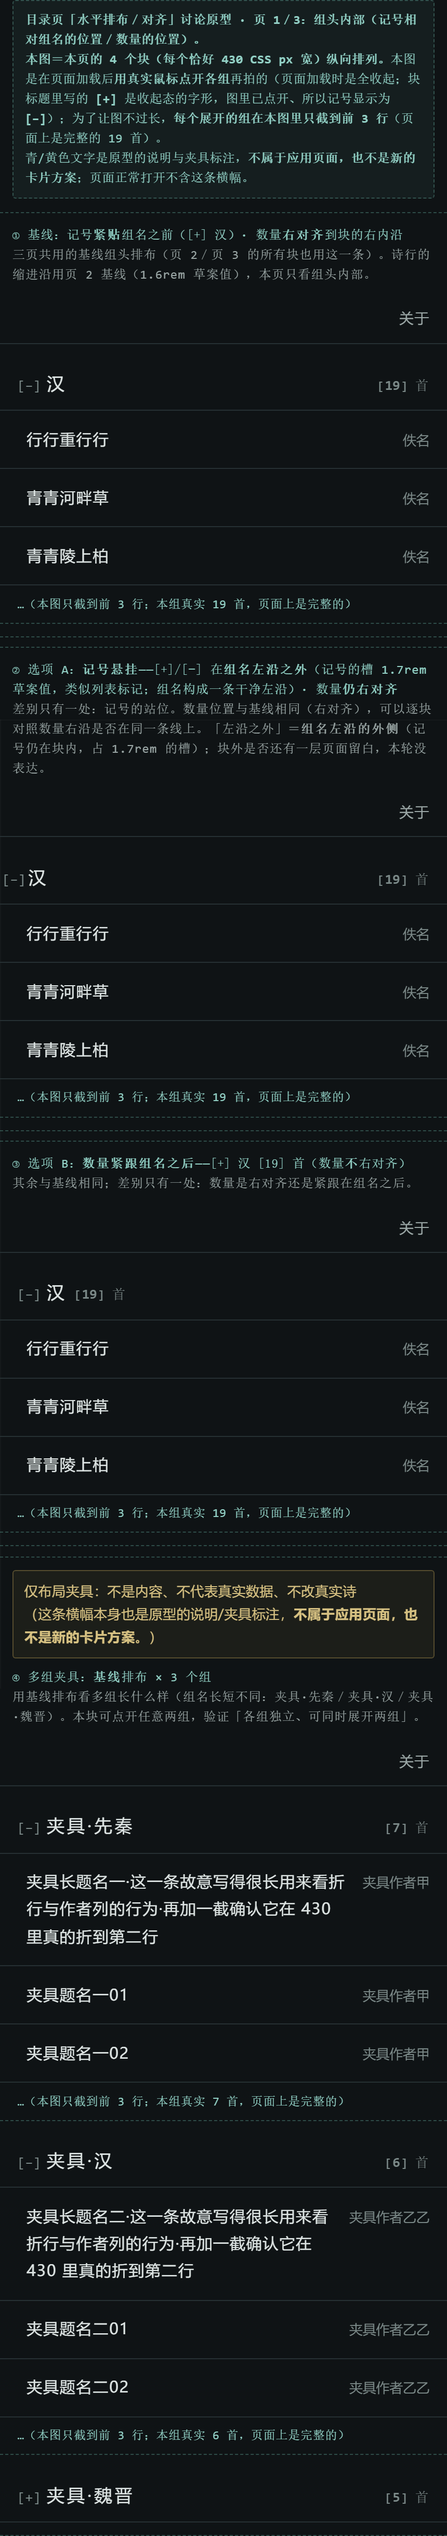
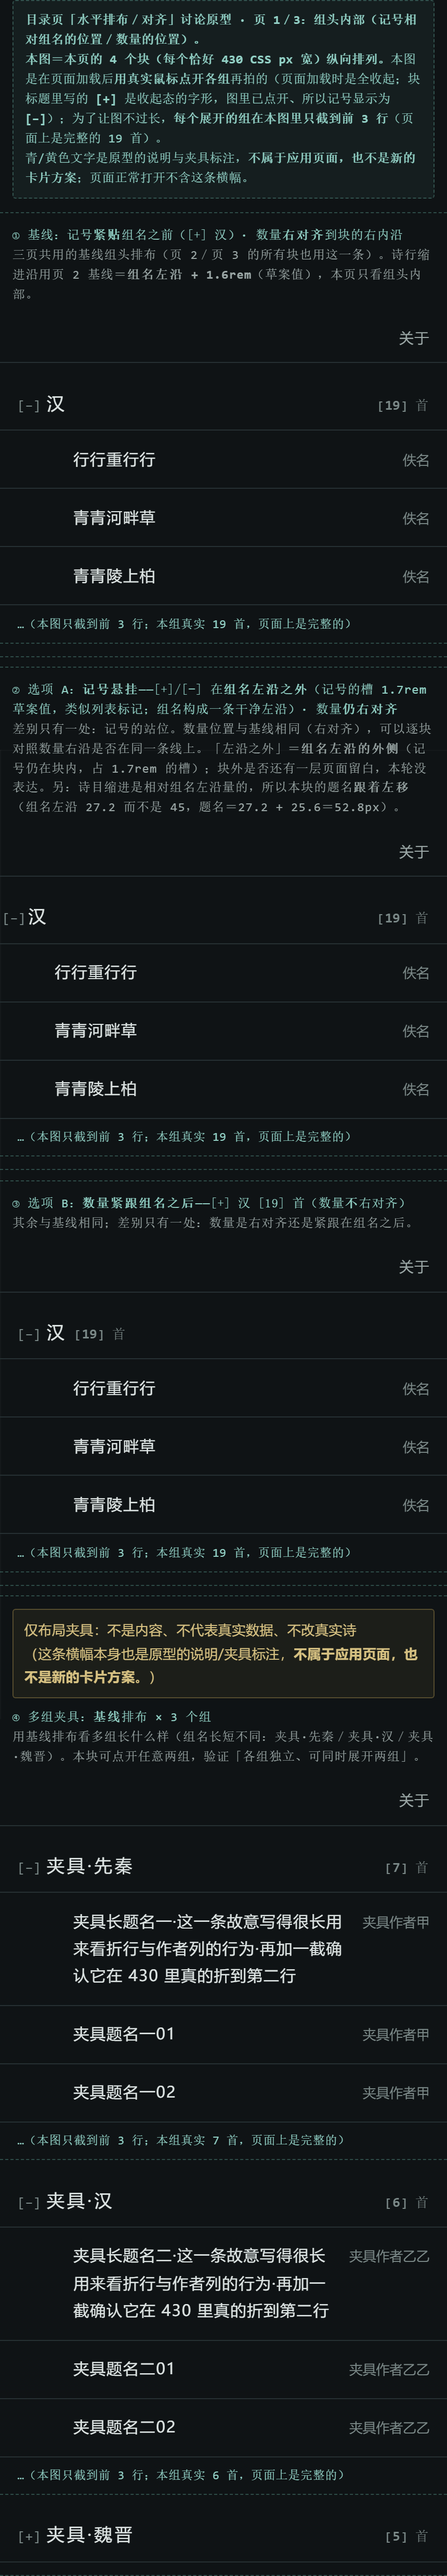
原型修正：诗目缩进的参照系改成「组名左沿」（层级方向反 → 正）
- 参照系：诗目左沿 = 组名左沿(--name-x 实测) + 相对量；三页同一条规则
- 新基线：组名左沿 + 1.6rem（45+25.6=70.6px），诗目在组名右侧
- 页 2 三个量同方向：+0（选项 B，与组名首字对齐）/ +0.8rem（选项 A）/ +1.6rem（基线）
- 页 1 悬挂选项：组名左沿 27.2 ⇒ 题名 52.8（缩进跟着组名走）
- 自检新增/改写断言：三块差值必须 = 1.6rem/0.8rem/0 且都 ≥ 0（142 PASS / 0 FAIL）
- 三页重出 HTML 与 430 图；md 更新实测数字并加一条如实更正

diff --git a/items/app-ui/prototypes/q-hub-horizontal.body.html b/items/app-ui/prototypes/q-hub-horizontal.body.html
@@ -53,10 +53,10 @@
   --block-w: 430px;        /* 验收宽度：真实 430 CSS px（移动口径），不是草案、是任务书给的口径 */
   --edge-x: 1.05rem;       /* 草案值：块的左右内沿（取令牌 --row-pad 的横向分量，使组头右沿与诗行右沿同一条线） */
   --mark-slot: 1.7rem;     /* 草案值：悬挂记号的槽宽（页 1 选项 A 用；= 记号宽 + 两侧余量） */
-  --indent-base: 1.6rem;   /* 草案值：页 2 基线题名缩进（任务书给的草案值） */
-  --indent-light: 0.8rem;  /* 草案值：页 2 选项 A 缩进（任务书给的草案值） */
-  --name-x: 0px;           /* 组名首字相对块左沿的实测偏移，由页面脚本量出后写回（页 2 选项 B 用） */
-  --indent: var(--indent-base);  /* 每个块可覆盖 */
+  --name-x: 0px;           /* 【参照系】组名左沿相对块左沿的实测偏移，由页面脚本量出后写回（随组头排布走） */
+  --indent-base: 1.6rem;   /* 草案值：诗目缩进基线 = 组名左沿 + 1.6rem（任务书给的草案值） */
+  --indent-light: 0.8rem;  /* 草案值：页 2 选项 A = 组名左沿 + 0.8rem（任务书给的草案值） */
+  --indent-add: var(--indent-base);  /* 每个块可覆盖：诗目左沿 = 组名左沿 + --indent-add（0rem 即与组名首字对齐） */
 }
 /* == DRAFT-VALUES-END == */
 
@@ -257,7 +257,7 @@ html[data-shot="1"] .glist > .poemrow:nth-child(n+4) { display: none; }
   align-items: baseline;
   gap: 0.6rem;
   padding: var(--row-pad);
-  padding-left: var(--indent);
+  padding-left: calc(var(--name-x) + var(--indent-add));   /* 诗目缩进：相对**组名左沿**量（不是相对块左沿） */
   padding-right: var(--edge-x);
   text-decoration: none;
   transition: var(--row-transition);
@@ -291,9 +291,9 @@ html[data-shot="1"] .glist > .poemrow:nth-child(n+4) { display: none; }
       <li><code>[+]/[−]</code> 方括号开合记号<b>只表达状态</b>，是<b>探索记号</b>（不算已采纳、也没有令牌）。</li>
       <li>行为（三页一致）：首次进入<b>全部收起</b>（单组也收起）· <b>整个组头可点</b>（组名／空白／数量／记号任一处）· 各组<b>独立</b>展开（<b>可同时展开两组</b>，不是手风琴）。</li>
     </ul>
-    <p>这一页只改<b>诗行的左沿</b>（题名的左沿）：<b>相对组头的左边界关系</b>。组头内部（页 1 的维度）与题名／作者（页 3 的维度）本页<b>不动</b>，都按基线画。</p>
-    <p><code>1.6rem</code>（基线）与 <code>0.8rem</code>（选项 A）<b>都是任务书给的草案值</b>，不是规范值。三块都从<b>同一条参照</b>量起：<b>块的左沿</b>（＝屏幕左沿 0px）；右边沿三块相同：块的右内沿 <code>1.05rem</code>＝16.8px（沿用令牌 <code>--row-pad</code> 的横向分量）。</p>
-    <p>⚠ 一条要知道的实测事实：基线组头是 <code>[+] 汉</code>（记号内联占位），<b>组名首字并不在块的最左沿</b> —— 实测在 <b>45px</b>。所以「基线 1.6rem＝25.6px 的题名」与「组名首字 45px」是<b>两条不同的竖线</b>，题名反而落在组名左侧 —— 这正是本页要看的边界关系（选项 B 才是把两条竖线并成一条：45px＝2.8rem）。</p>
+    <p>这一页只改<b>诗行的左沿</b>（题名的左沿）：<b>相对组头（组名左沿）的缩进量</b>。组头内部（页 1 的维度）与题名／作者（页 3 的维度）本页<b>不动</b>，都按基线画。</p>
+    <p>三个量都是任务书给的<b>草案值</b>，不是规范值。三块<u>从同一条参照量起</u>：<b>组名左沿</b>（基线组头的组名左沿实测在 <b>45px</b>；它随组头排布走，不是固定值）。右边沿三块相同：块的右内沿 <code>1.05rem</code>＝16.8px（沿用令牌 <code>--row-pad</code> 的横向分量）。</p>
+    <p>⚠ <b>参照系更正（早期版本的缺陷）</b>：早期版本把缩进<b>从块左沿量</b>，于是「1.6rem」落在 25.6px、比组名左沿（45px）还靠左 —— <b>层级方向是反的</b>（题名像在组名的外边），而且三个选项都没有一个是「诗目在组名右侧」。现已改为<b>相对「组名左沿」量</b>：基线＝组名左沿 + 1.6rem（＝45 + 25.6＝<b>70.6px</b>），题名一定在组名<b>右侧</b>；选项 A＝+0.8rem；选项 B＝+0（与组名首字对齐）。三块是<b>同一个方向上的三个量</b>：<b>+0 → +0.8rem → +1.6rem（基线）</b>。</p>
     <p><b>块宽＝真实 430 CSS px</b>（四处对齐都按这个宽度渲染）；<b>真实内容（汉·19 首）与多组夹具分开</b>，夹具块有醒目标注。</p>
     <p class="pnote">⚠ 这一页上的说明文字 —— 含本段、下面每个块的标题、以及夹具横幅 —— <b>是原型的说明/夹具标注，不属于应用页面，也不是新的卡片方案。</b></p>
   </div>
@@ -304,20 +304,20 @@ html[data-shot="1"] .glist > .poemrow:nth-child(n+4) { display: none; }
       <div class="shotbanner"><b>目录页「水平排布／对齐」讨论原型 · 页 2／3：组头 ↔ 诗目的左右边界（诗目从哪条左沿起）。</b><br><b>本图＝本页的 4 个块（每个恰好 430 CSS px 宽）纵向排列。</b>本图是在页面加载后<b>用真实鼠标点开各组</b>再拍的（页面加载时是全收起；块标题里写的 <b>[+]</b> 是收起态的字形，图里已点开、所以记号显示为 <b>[−]</b>）；为了让图不过长，<b>每个展开的组在本图里只截到前 3 行</b>（页面上是完整的 19 首）。<br>青/黄色文字是原型的说明与夹具标注，<b>不属于应用页面，也不是新的卡片方案</b>；页面正常打开不含这条横幅。</div>
       <div class="rack">
     <div class="inst" data-block="b1">
-      <div class="icap">① 基线：诗目缩进 <b>1.6rem</b>（草案值）起题名<em>题名左沿＝块左沿 + 1.6rem（实测见自检脚本输出的数字）。</em></div>
+      <div class="icap">① 基线：<b>组名左沿 + 1.6rem</b>（草案值）起题名 —— 诗目在组名<b>右侧</b><em>题名左沿 = 组名左沿（实测 45px）+ 25.6px = 70.6px（自检脚本会把三块的数字都打出来）。</em></div>
       <div data-mount="b1"></div>
     </div>
     <div class="inst" data-block="b2">
-      <div class="icap">② 选项 A：<b>轻缩进 0.8rem</b>（草案值）<em>层次读起来更淡；与基线的差别只有这一条左沿。</em></div>
+      <div class="icap">② 选项 A：<b>组名左沿 + 0.8rem</b>（草案值）＝比基线少 12.8px<em>与基线的差别只有这一条左沿（题名左沿＝45 + 12.8＝57.8px）。</em></div>
       <div data-mount="b2"></div>
     </div>
     <div class="inst" data-block="b3">
-      <div class="icap">③ 选项 B：<b>对齐到组名首字</b>（缩进 = 记号宽＋间隙，题名与组名首字同一条竖线）<em>缩进不是写死的值，而是页面量出「组名首字」的位置后对齐过去（所以组头排布一改，它就跟着走）。</em></div>
+      <div class="icap">③ 选项 B：<b>组名左沿 + 0</b> —— 与组名首字对齐（题名与组名首字同一条竖线）<em>量是 0，是三个量里最小的一个（参照系改成组名左沿后，它就是一个 0 偏移；题名左沿＝组名左沿＝45px）。</em></div>
       <div data-mount="b3"></div>
     </div>
     <div class="inst" data-block="b4">
       <div class="fxban">仅布局夹具：不是内容、不代表真实数据、不改真实诗<br>（这条横幅本身也是原型的说明/夹具标注，<b>不属于应用页面，也不是新的卡片方案</b>。）</div>
-      <div class="icap">④ 多组夹具：<b>基线</b>排布（1.6rem）× 3 个组 · 可同时展开两组<em>本块每组第一条是故意写长的夹具题名（看长题名在窄栏里的左沿与折行）。</em></div>
+      <div class="icap">④ 多组夹具：<b>基线</b>排布（组名左沿 + 1.6rem）× 3 个组 · 可同时展开两组<em>本块每组第一条是故意写长的夹具题名（看长题名在窄栏里的左沿与折行）。</em></div>
       <div data-mount="b4"></div>
     </div>
       </div>
@@ -389,7 +389,7 @@ html[data-shot="1"] .glist > .poemrow:nth-child(n+4) { display: none; }
     root.dataset.block = spec.block;
     root.dataset.head = spec.head;
     root.dataset.rel = spec.rel;
-    if (spec.indent) root.style.setProperty('--indent', spec.indent);
+    if (spec.add) root.style.setProperty('--indent-add', spec.add);
 
     // 顶部只此一项入口：「关于」
     var top = el('div', 'topline');
@@ -486,7 +486,8 @@ html[data-shot="1"] .glist > .poemrow:nth-child(n+4) { display: none; }
     return root;
   }
 
-  // 量出「组名首字相对块左沿」的偏移，写回 --name-x（页 2 选项 B：题名左沿对齐到组名首字）
+  // 量出「组名左沿相对块左沿」的偏移，写回 --name-x —— 这是诗目缩进的**参照系**（所有页面都用它，
+  // 所以组头排布一变，缩进就跟着组名走）
   function measureNameX(hub) {
     var name = hub.querySelector('[data-test="gname"]');
     if (!name) return;
@@ -502,7 +503,7 @@ html[data-shot="1"] .glist > .poemrow:nth-child(n+4) { display: none; }
       "block": "baseline",
       "head": "baseline",
       "rel": "right",
-      "indent": "var(--indent-base)",
+      "add": "var(--indent-base)",
       "groups": "real",
       "fxRowFirst": false,
       "open": []
@@ -512,7 +513,7 @@ html[data-shot="1"] .glist > .poemrow:nth-child(n+4) { display: none; }
       "block": "optA",
       "head": "baseline",
       "rel": "right",
-      "indent": "var(--indent-light)",
+      "add": "var(--indent-light)",
       "groups": "real",
       "fxRowFirst": false,
       "open": []
@@ -522,7 +523,7 @@ html[data-shot="1"] .glist > .poemrow:nth-child(n+4) { display: none; }
       "block": "optB",
       "head": "baseline",
       "rel": "right",
-      "indent": "var(--name-x)",
+      "add": "0rem",
       "groups": "real",
       "fxRowFirst": false,
       "open": []
@@ -532,7 +533,7 @@ html[data-shot="1"] .glist > .poemrow:nth-child(n+4) { display: none; }
       "block": "fx",
       "head": "baseline",
       "rel": "right",
-      "indent": "var(--indent-base)",
+      "add": "var(--indent-base)",
       "groups": "fixture",
       "fxRowFirst": false,
       "open": []

diff --git a/items/app-ui/prototypes/q-hub-horizontal.head.html b/items/app-ui/prototypes/q-hub-horizontal.head.html
@@ -53,8 +53,9 @@
   --block-w: 430px;        /* 验收宽度：真实 430 CSS px（移动口径），不是草案、是任务书给的口径 */
   --edge-x: 1.05rem;       /* 草案值：块的左右内沿（取令牌 --row-pad 的横向分量，使组头右沿与诗行右沿同一条线） */
   --mark-slot: 1.7rem;     /* 草案值：悬挂记号的槽宽（页 1 选项 A 用；= 记号宽 + 两侧余量） */
-  --indent-base: 1.6rem;   /* 草案值：页 2 基线题名缩进（任务书给的草案值） */
-  --indent: var(--indent-base);  /* 每个块可覆盖 */
+  --name-x: 0px;           /* 【参照系】组名左沿相对块左沿的实测偏移，由页面脚本量出后写回（随组头排布走） */
+  --indent-base: 1.6rem;   /* 草案值：诗目缩进基线 = 组名左沿 + 1.6rem（任务书给的草案值） */
+  --indent-add: var(--indent-base);  /* 每个块可覆盖：诗目左沿 = 组名左沿 + --indent-add（0rem 即与组名首字对齐） */
 }
 /* == DRAFT-VALUES-END == */
 
@@ -255,7 +256,7 @@ html[data-shot="1"] .glist > .poemrow:nth-child(n+4) { display: none; }
   align-items: baseline;
   gap: 0.6rem;
   padding: var(--row-pad);
-  padding-left: var(--indent);
+  padding-left: calc(var(--name-x) + var(--indent-add));   /* 诗目缩进：相对**组名左沿**量（不是相对块左沿） */
   padding-right: var(--edge-x);
   text-decoration: none;
   transition: var(--row-transition);
@@ -292,6 +293,7 @@ html[data-shot="1"] .glist > .poemrow:nth-child(n+4) { display: none; }
     <p>这一页只改<b>组头内部</b>的水平排布：记号在组名的哪一侧、数量靠右还是紧跟。诗目那边（页 2 的维度）与题名／作者（页 3 的维度）本页<b>不动</b>，都按各自基线画。</p>
     <p><b>两种方括号不是一回事</b>：<code>[+]/[−]</code> 是<b>状态记号</b>（探索记号，不算已采纳、没有令牌），数量的 <code>[19]</code> 是<b>计数记号</b>（令牌 §4.1 记号②）。本页要看的正是它们在水平方向上各自站在哪里。</p>
     <p>选项 A 里记号的槽宽 <code>1.7rem</code> 是<b>草案值</b>（规范里没有这个数）。三页的块左／右沿＝屏幕左／右沿（为了让每块恰好 430）；真机的页面留白这一层不在本轮表达。</p>
+    <p>诗目缩进在三页都用<b>同一条规则</b>：<b>组名左沿 + 1.6rem（草案值）</b>。所以本页选项 A（悬挂）把组名左沿左移之后，<b>诗目缩进会跟着组名走</b>（相对量不变、绝对值变小）——见块 ② 的实测数字。</p>
     <p><b>块宽＝真实 430 CSS px</b>（四处对齐都按这个宽度渲染）；<b>真实内容（汉·19 首）与多组夹具分开</b>，夹具块有醒目标注。</p>
     <p class="pnote">⚠ 这一页上的说明文字 —— 含本段、下面每个块的标题、以及夹具横幅 —— <b>是原型的说明/夹具标注，不属于应用页面，也不是新的卡片方案。</b></p>
   </div>
@@ -302,11 +304,11 @@ html[data-shot="1"] .glist > .poemrow:nth-child(n+4) { display: none; }
       <div class="shotbanner"><b>目录页「水平排布／对齐」讨论原型 · 页 1／3：组头内部（记号相对组名的位置／数量的位置）。</b><br><b>本图＝本页的 4 个块（每个恰好 430 CSS px 宽）纵向排列。</b>本图是在页面加载后<b>用真实鼠标点开各组</b>再拍的（页面加载时是全收起；块标题里写的 <b>[+]</b> 是收起态的字形，图里已点开、所以记号显示为 <b>[−]</b>）；为了让图不过长，<b>每个展开的组在本图里只截到前 3 行</b>（页面上是完整的 19 首）。<br>青/黄色文字是原型的说明与夹具标注，<b>不属于应用页面，也不是新的卡片方案</b>；页面正常打开不含这条横幅。</div>
       <div class="rack">
     <div class="inst" data-block="b1">
-      <div class="icap">① 基线：记号<b>紧贴</b>组名之前（<code>[+] 汉</code>）· 数量<b>右对齐</b>到块的右内沿<em>三页共用的基线组头排布（页 2／页 3 的所有块也用这一条）。诗行的缩进沿用页 2 基线（1.6rem 草案值），本页只看组头内部。</em></div>
+      <div class="icap">① 基线：记号<b>紧贴</b>组名之前（<code>[+] 汉</code>）· 数量<b>右对齐</b>到块的右内沿<em>三页共用的基线组头排布（页 2／页 3 的所有块也用这一条）。诗行缩进沿用页 2 基线＝<b>组名左沿 + 1.6rem</b>（草案值），本页只看组头内部。</em></div>
       <div data-mount="b1"></div>
     </div>
     <div class="inst" data-block="b2">
-      <div class="icap">② 选项 A：<b>记号悬挂</b>——<code>[+]/[−]</code> 在<b>组名左沿之外</b>（记号的槽 1.7rem 草案值，类似列表标记；组名构成一条干净左沿）· 数量<b>仍右对齐</b><em>差别只有一处：记号的站位。数量位置与基线相同（右对齐），可以逐块对照数量右沿是否在同一条线上。「左沿之外」＝<b>组名左沿的外侧</b>（记号仍在块内，占 1.7rem 的槽）；块外是否还有一层页面留白，本轮没表达。</em></div>
+      <div class="icap">② 选项 A：<b>记号悬挂</b>——<code>[+]/[−]</code> 在<b>组名左沿之外</b>（记号的槽 1.7rem 草案值，类似列表标记；组名构成一条干净左沿）· 数量<b>仍右对齐</b><em>差别只有一处：记号的站位。数量位置与基线相同（右对齐），可以逐块对照数量右沿是否在同一条线上。「左沿之外」＝<b>组名左沿的外侧</b>（记号仍在块内，占 1.7rem 的槽）；块外是否还有一层页面留白，本轮没表达。另：诗目缩进是相对组名左沿量的，所以本块的题名<b>跟着左移</b>（组名左沿 27.2 而不是 45，题名＝27.2 + 25.6＝52.8px）。</em></div>
       <div data-mount="b2"></div>
     </div>
     <div class="inst" data-block="b3">
@@ -387,7 +389,7 @@ html[data-shot="1"] .glist > .poemrow:nth-child(n+4) { display: none; }
     root.dataset.block = spec.block;
     root.dataset.head = spec.head;
     root.dataset.rel = spec.rel;
-    if (spec.indent) root.style.setProperty('--indent', spec.indent);
+    if (spec.add) root.style.setProperty('--indent-add', spec.add);
 
     // 顶部只此一项入口：「关于」
     var top = el('div', 'topline');
@@ -484,7 +486,8 @@ html[data-shot="1"] .glist > .poemrow:nth-child(n+4) { display: none; }
     return root;
   }
 
-  // 量出「组名首字相对块左沿」的偏移，写回 --name-x（页 2 选项 B：题名左沿对齐到组名首字）
+  // 量出「组名左沿相对块左沿」的偏移，写回 --name-x —— 这是诗目缩进的**参照系**（所有页面都用它，
+  // 所以组头排布一变，缩进就跟着组名走）
   function measureNameX(hub) {
     var name = hub.querySelector('[data-test="gname"]');
     if (!name) return;
@@ -500,7 +503,7 @@ html[data-shot="1"] .glist > .poemrow:nth-child(n+4) { display: none; }
       "block": "baseline",
       "head": "baseline",
       "rel": "right",
-      "indent": "var(--indent-base)",
+      "add": "var(--indent-base)",
       "groups": "real",
       "fxRowFirst": false,
       "open": []
@@ -510,7 +513,7 @@ html[data-shot="1"] .glist > .poemrow:nth-child(n+4) { display: none; }
       "block": "optA",
       "head": "hang",
       "rel": "right",
-      "indent": "var(--indent-base)",
+      "add": "var(--indent-base)",
       "groups": "real",
       "fxRowFirst": false,
       "open": []
@@ -520,7 +523,7 @@ html[data-shot="1"] .glist > .poemrow:nth-child(n+4) { display: none; }
       "block": "optB",
       "head": "countinline",
       "rel": "right",
-      "indent": "var(--indent-base)",
+      "add": "var(--indent-base)",
       "groups": "real",
       "fxRowFirst": false,
       "open": []
@@ -530,7 +533,7 @@ html[data-shot="1"] .glist > .poemrow:nth-child(n+4) { display: none; }
       "block": "fx",
       "head": "baseline",
       "rel": "right",
-      "indent": "var(--indent-base)",
+      "add": "var(--indent-base)",
       "groups": "fixture",
       "fxRowFirst": false,
       "open": []

diff --git a/items/app-ui/prototypes/q-hub-horizontal.title.html b/items/app-ui/prototypes/q-hub-horizontal.title.html
@@ -53,8 +53,9 @@
   --block-w: 430px;        /* 验收宽度：真实 430 CSS px（移动口径），不是草案、是任务书给的口径 */
   --edge-x: 1.05rem;       /* 草案值：块的左右内沿（取令牌 --row-pad 的横向分量，使组头右沿与诗行右沿同一条线） */
   --mark-slot: 1.7rem;     /* 草案值：悬挂记号的槽宽（页 1 选项 A 用；= 记号宽 + 两侧余量） */
-  --indent-base: 1.6rem;   /* 草案值：页 2 基线题名缩进（任务书给的草案值） */
-  --indent: var(--indent-base);  /* 每个块可覆盖 */
+  --name-x: 0px;           /* 【参照系】组名左沿相对块左沿的实测偏移，由页面脚本量出后写回（随组头排布走） */
+  --indent-base: 1.6rem;   /* 草案值：诗目缩进基线 = 组名左沿 + 1.6rem（任务书给的草案值） */
+  --indent-add: var(--indent-base);  /* 每个块可覆盖：诗目左沿 = 组名左沿 + --indent-add（0rem 即与组名首字对齐） */
 }
 /* == DRAFT-VALUES-END == */
 
@@ -255,7 +256,7 @@ html[data-shot="1"] .glist > .poemrow:nth-child(n+4) { display: none; }
   align-items: baseline;
   gap: 0.6rem;
   padding: var(--row-pad);
-  padding-left: var(--indent);
+  padding-left: calc(var(--name-x) + var(--indent-add));   /* 诗目缩进：相对**组名左沿**量（不是相对块左沿） */
   padding-right: var(--edge-x);
   text-decoration: none;
   transition: var(--row-transition);
@@ -289,7 +290,7 @@ html[data-shot="1"] .glist > .poemrow:nth-child(n+4) { display: none; }
       <li><code>[+]/[−]</code> 方括号开合记号<b>只表达状态</b>，是<b>探索记号</b>（不算已采纳、也没有令牌）。</li>
       <li>行为（三页一致）：首次进入<b>全部收起</b>（单组也收起）· <b>整个组头可点</b>（组名／空白／数量／记号任一处）· 各组<b>独立</b>展开（<b>可同时展开两组</b>，不是手风琴）。</li>
     </ul>
-    <p>这一页只改<b>题名与作者的关系</b>。组头内部（页 1）与诗目左沿（页 2）本页<b>不动</b>，都用基线（组头 <code>[+] 汉</code>＋数量右对齐；诗目缩进 1.6rem 草案值）。</p>
+    <p>这一页只改<b>题名与作者的关系</b>。组头内部（页 1）与诗目左沿（页 2）本页<b>不动</b>，都用基线（组头 <code>[+] 汉</code>＋数量右对齐；诗目缩进＝<b>组名左沿 + 1.6rem</b> 草案值）。</p>
     <p>每块的<b>第 1 行</b>是一条<b>夹具长题名</b>（虚线框标出）：只看折行／换行与作者列的行为，<b>它不是诗、不计入 <code>[19] 首</code>、不改真实诗</b>。真实 19 首的题名都是 5 字，本机没有真实长题名，所以只能用夹具行看折行。</p>
     <p>虚线框是<b>夹具行的标注</b>，不属于应用页面，也不是新的卡片方案。</p>
     <p><b>块宽＝真实 430 CSS px</b>（四处对齐都按这个宽度渲染）；<b>真实内容（汉·19 首）与多组夹具分开</b>，夹具块有醒目标注。</p>
@@ -387,7 +388,7 @@ html[data-shot="1"] .glist > .poemrow:nth-child(n+4) { display: none; }
     root.dataset.block = spec.block;
     root.dataset.head = spec.head;
     root.dataset.rel = spec.rel;
-    if (spec.indent) root.style.setProperty('--indent', spec.indent);
+    if (spec.add) root.style.setProperty('--indent-add', spec.add);
 
     // 顶部只此一项入口：「关于」
     var top = el('div', 'topline');
@@ -484,7 +485,8 @@ html[data-shot="1"] .glist > .poemrow:nth-child(n+4) { display: none; }
     return root;
   }
 
-  // 量出「组名首字相对块左沿」的偏移，写回 --name-x（页 2 选项 B：题名左沿对齐到组名首字）
+  // 量出「组名左沿相对块左沿」的偏移，写回 --name-x —— 这是诗目缩进的**参照系**（所有页面都用它，
+  // 所以组头排布一变，缩进就跟着组名走）
   function measureNameX(hub) {
     var name = hub.querySelector('[data-test="gname"]');
     if (!name) return;
@@ -500,7 +502,7 @@ html[data-shot="1"] .glist > .poemrow:nth-child(n+4) { display: none; }
       "block": "baseline",
       "head": "baseline",
       "rel": "right",
-      "indent": "var(--indent-base)",
+      "add": "var(--indent-base)",
       "groups": "real",
       "fxRowFirst": true,
       "open": []
@@ -510,7 +512,7 @@ html[data-shot="1"] .glist > .poemrow:nth-child(n+4) { display: none; }
       "block": "optA",
       "head": "baseline",
       "rel": "follow",
-      "indent": "var(--indent-base)",
+      "add": "var(--indent-base)",
       "groups": "real",
       "fxRowFirst": true,
       "open": []
@@ -520,7 +522,7 @@ html[data-shot="1"] .glist > .poemrow:nth-child(n+4) { display: none; }
       "block": "optB",
       "head": "baseline",
       "rel": "line",
-      "indent": "var(--indent-base)",
+      "add": "var(--indent-base)",
       "groups": "real",
       "fxRowFirst": true,
       "open": []
@@ -530,7 +532,7 @@ html[data-shot="1"] .glist > .poemrow:nth-child(n+4) { display: none; }
       "block": "fx",
       "head": "baseline",
       "rel": "right",
-      "indent": "var(--indent-base)",
+      "add": "var(--indent-base)",
       "groups": "fixture",
       "fxRowFirst": false,
       "open": []
